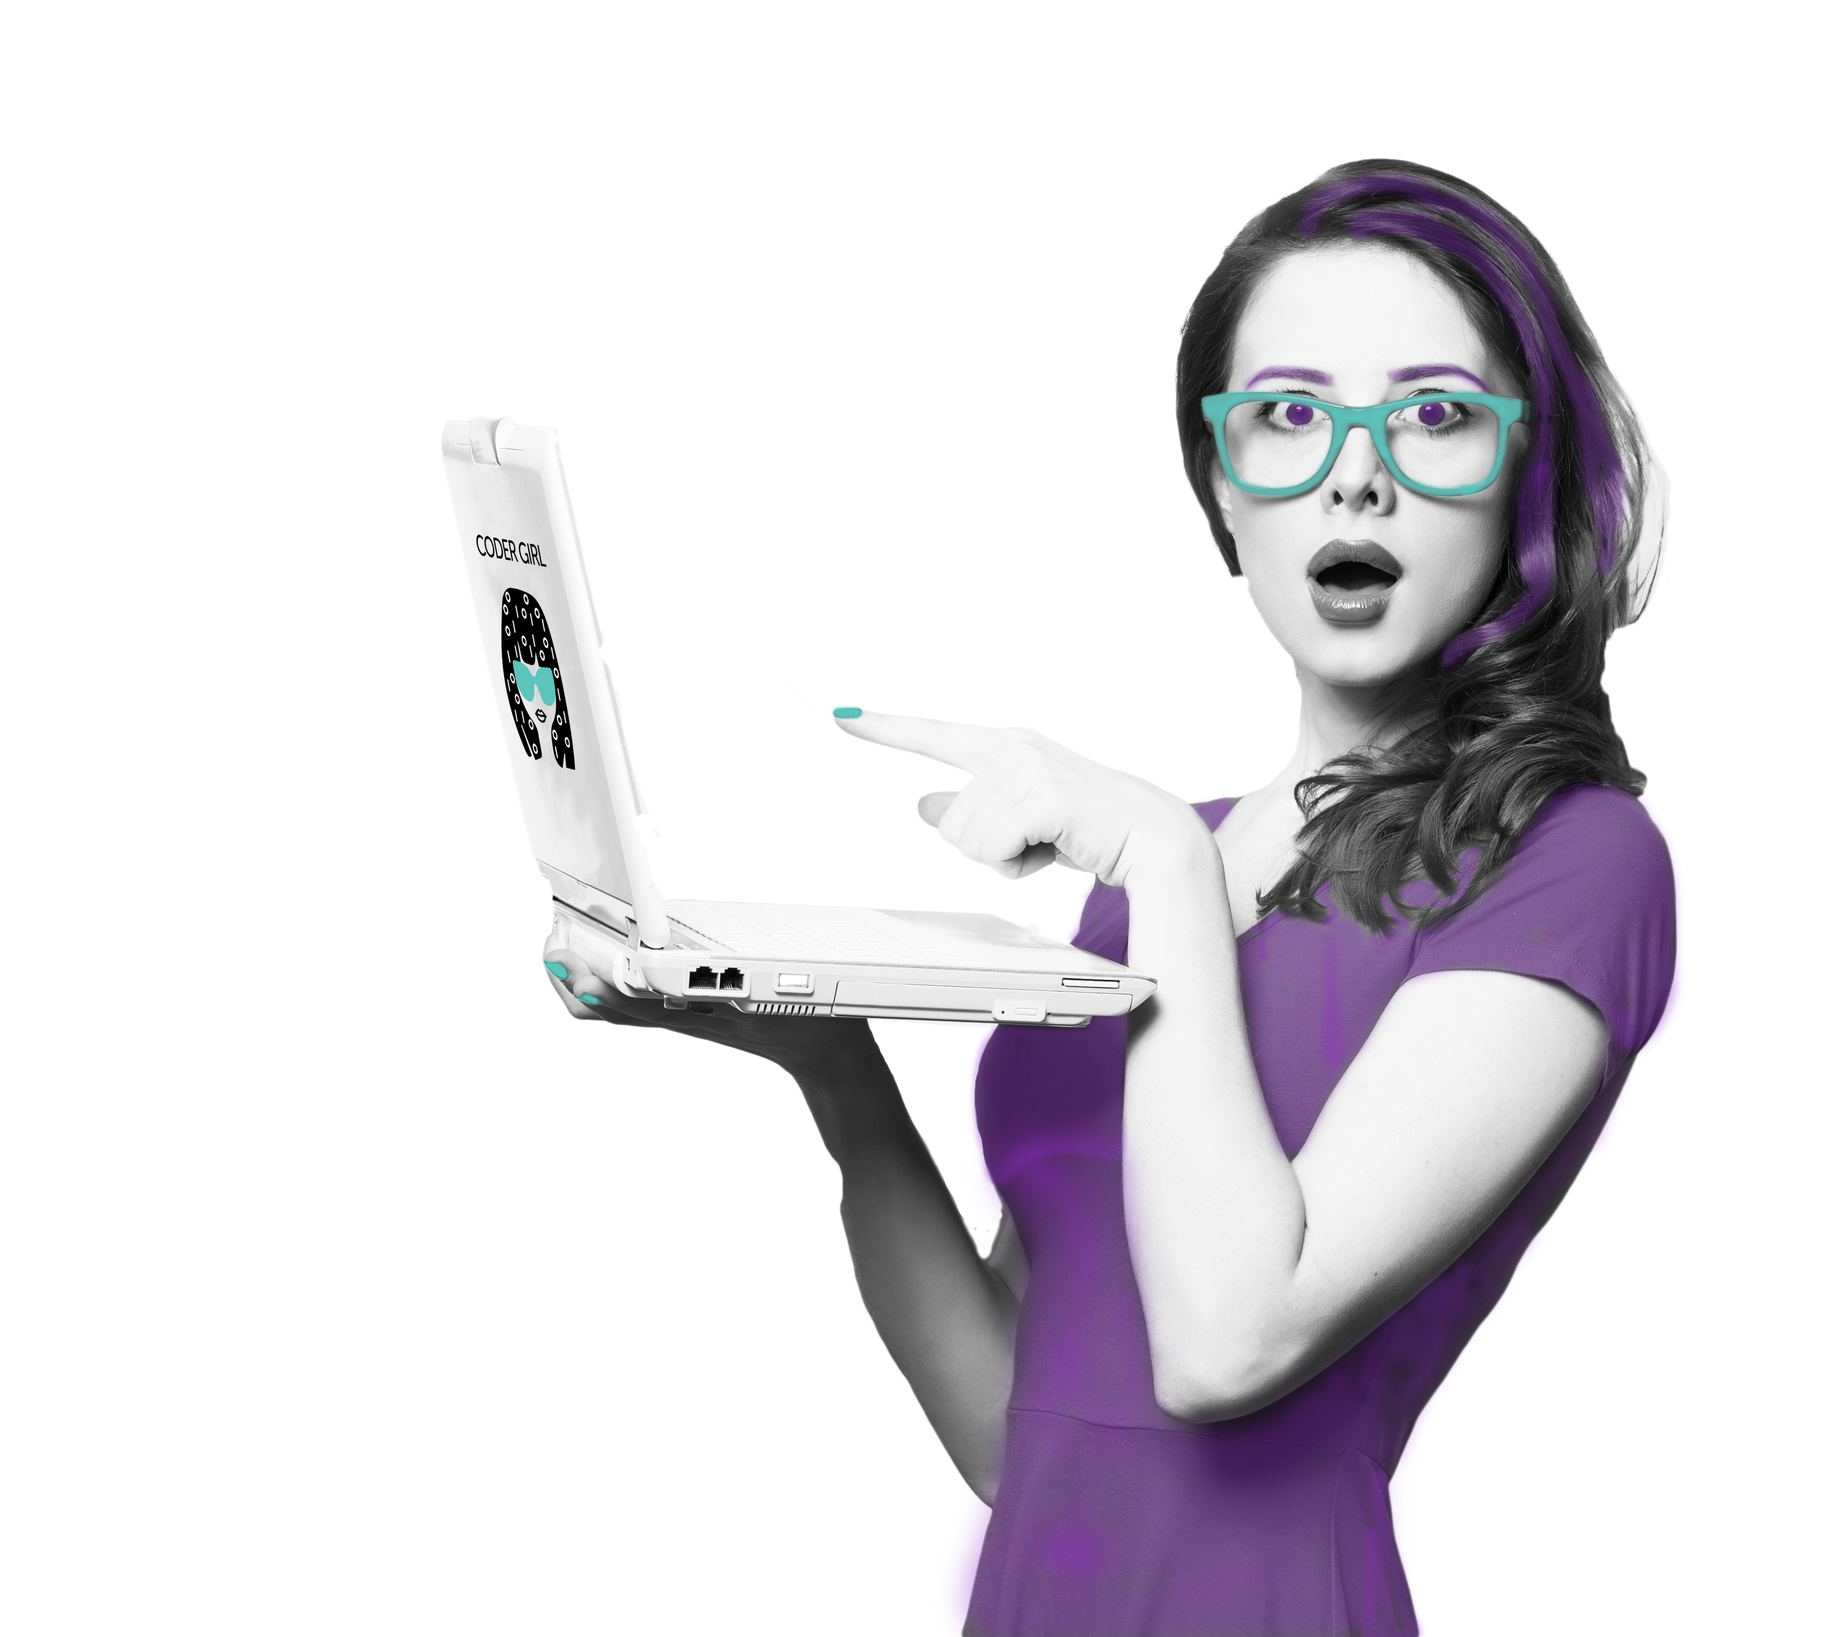
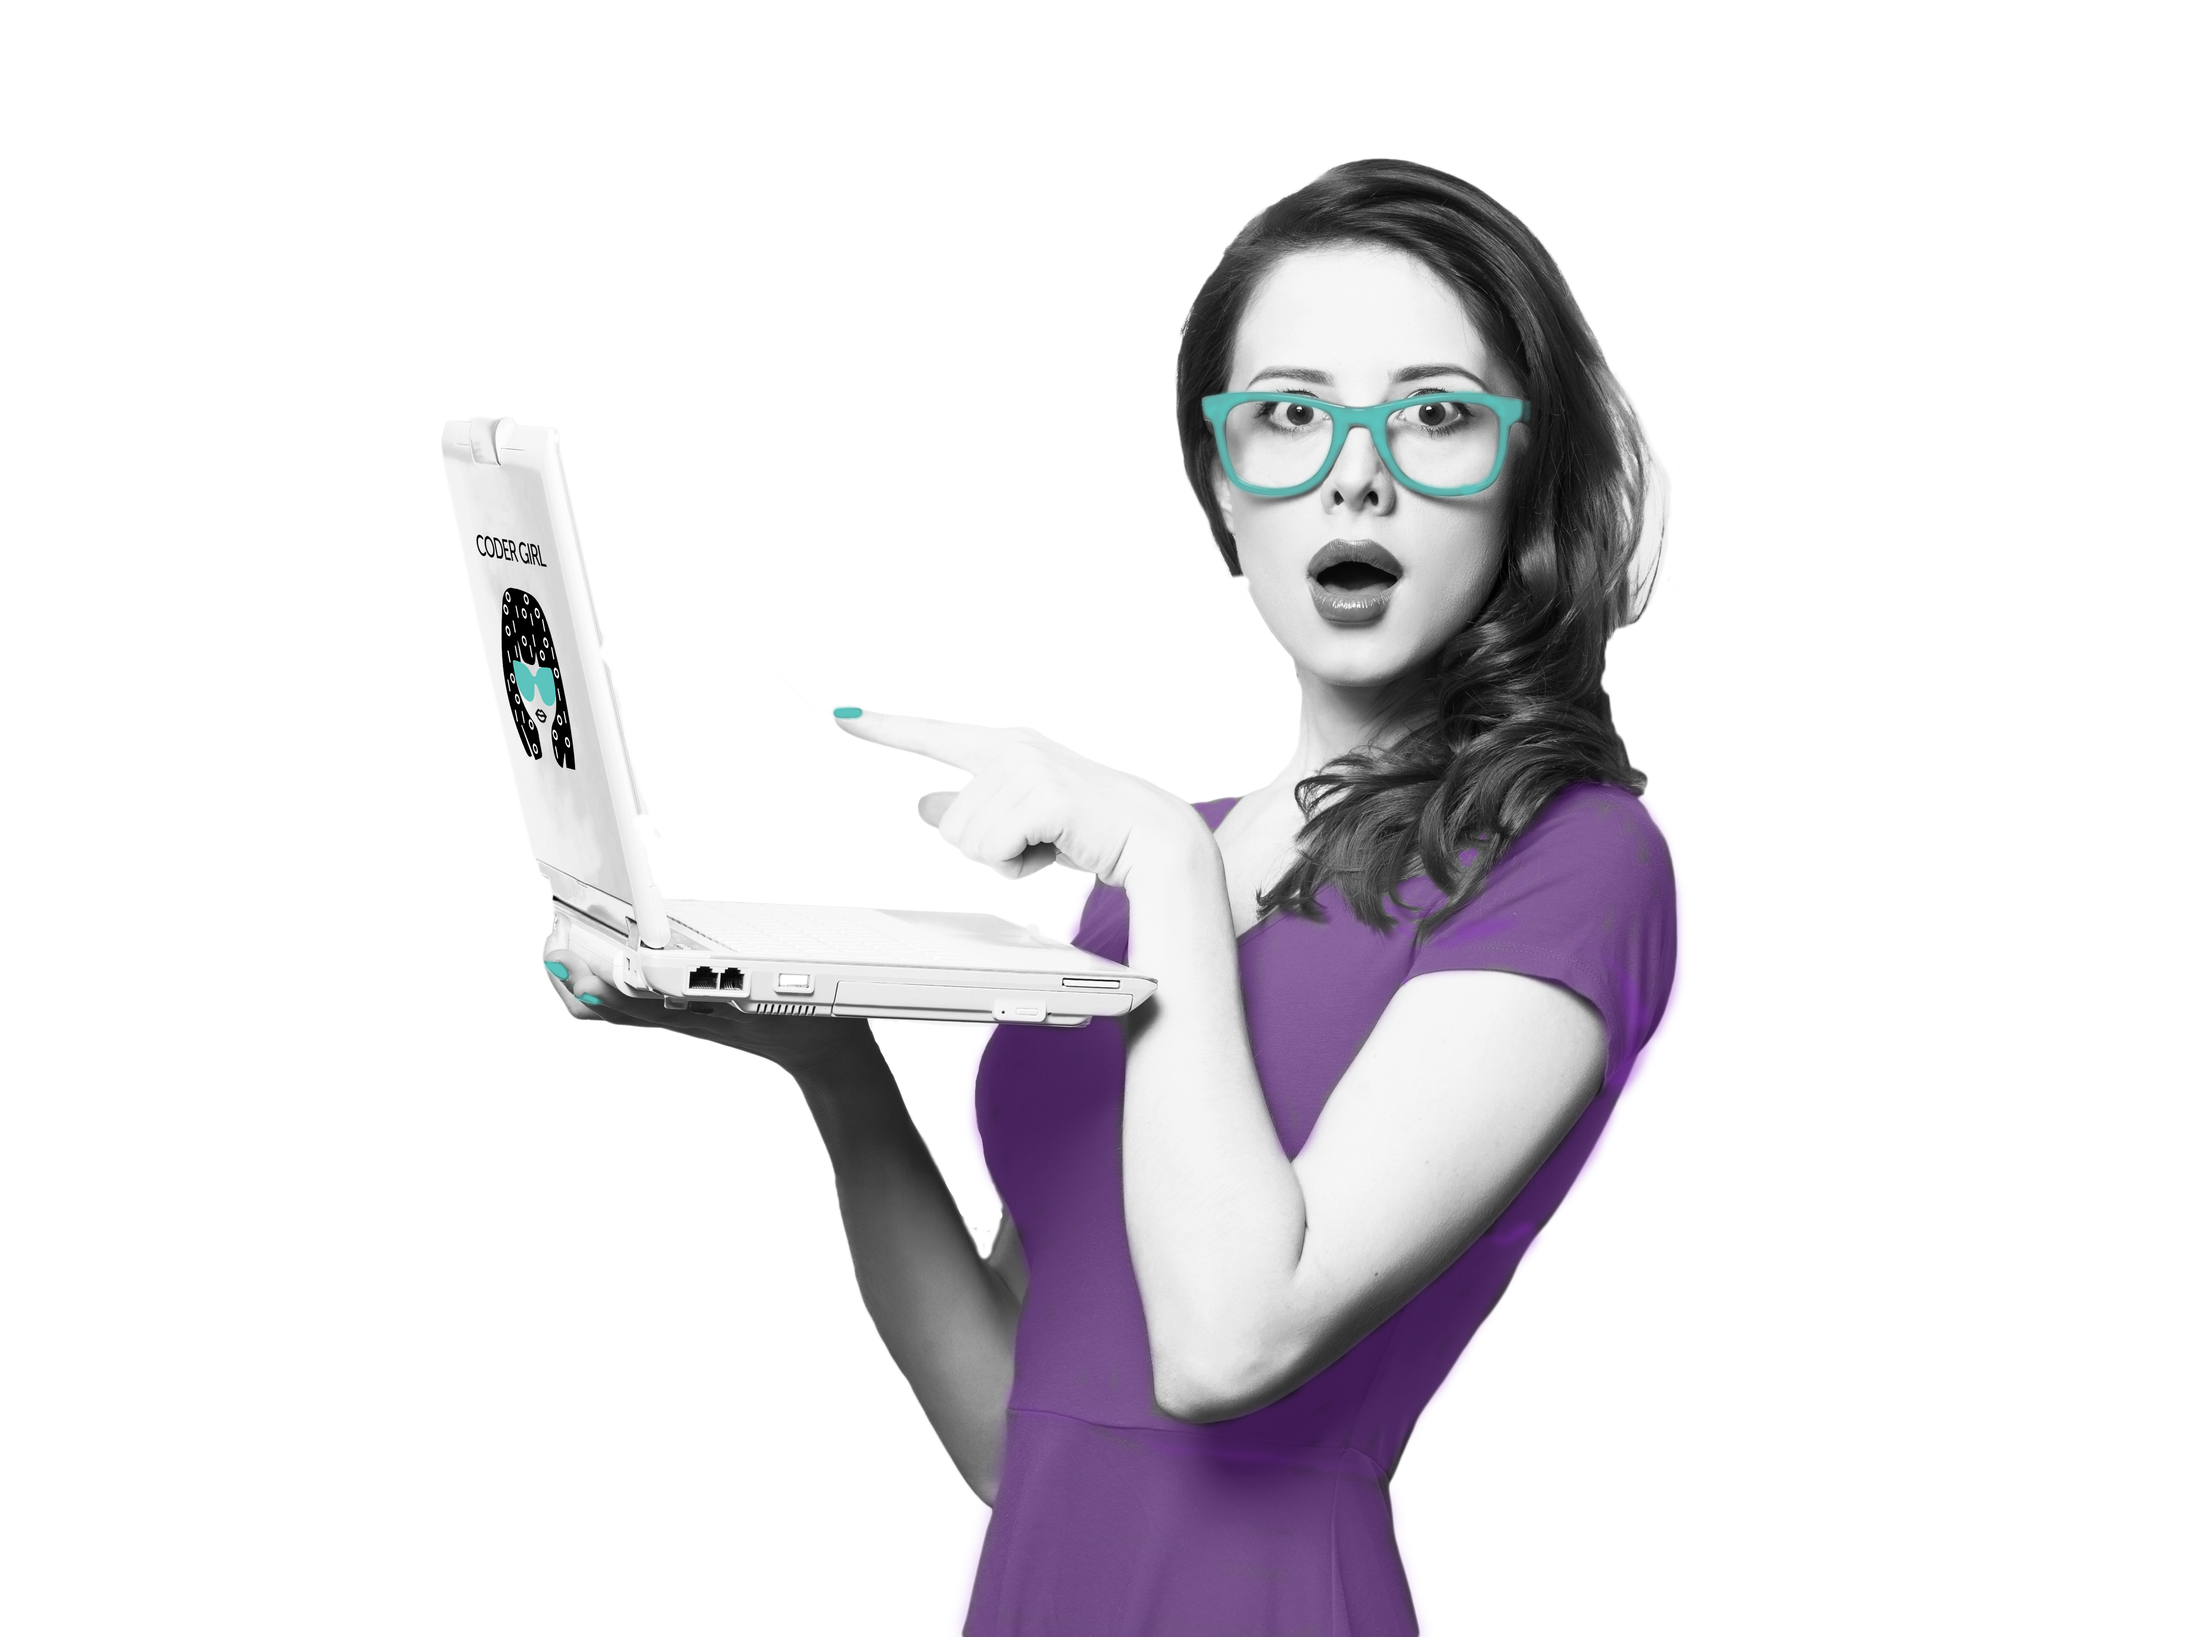
(fix) Changes out girl with computer image on login page with updated image.  Modifies "No account? Join up..." button on login page.

diff --git a/public/js/components/Login.js b/public/js/components/Login.js
@@ -71,7 +71,7 @@ var Login = React.createClass({
               <input type="email" id="right-label" className="user-email" placeholder="Enter your email" ref="email" />
               <input type="password" id="right2-label" className="user-password" placeholder="Enter your password" ref="password" />
               <input type="submit" className="loginButton button" value="Log in!" align="right" />
-              <Link to="signup" className="signUpLink">No account? Join up to get your code on!</Link>
+              <Link to="signup" className="signUpLink"><div>No account?</div><div className="joinUp">Join up to get your code on!</div></Link>
             </form>
           </div>
         </div>

diff --git a/public/styles/styles/_loginSignup.scss b/public/styles/styles/_loginSignup.scss
@@ -85,3 +85,9 @@ select:hover {
 #name {
   font-size: 2rem !important;
 }
+
+.joinUp {
+  padding-top: 7px;
+
+}
+
